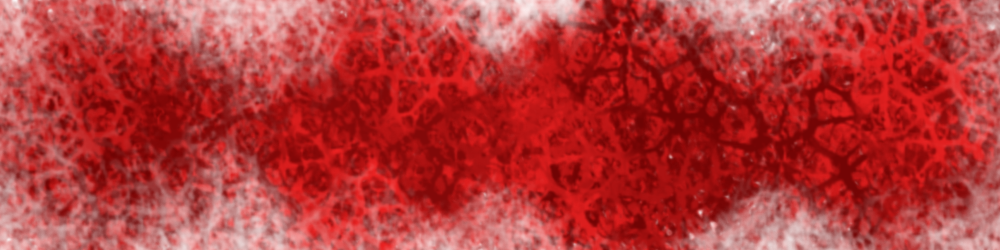
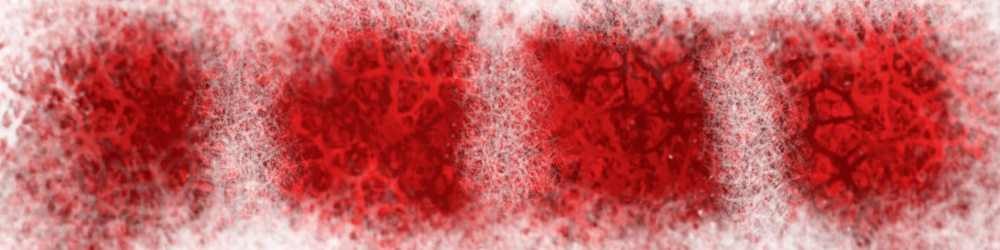
Add chatterbox; collisions with chatterbox 'miasma' only; other object is a harbinger

diff --git a/src/OpenGLRenderer.cpp b/src/OpenGLRenderer.cpp
@@ -301,10 +301,6 @@ void OpenGLRenderer::PopulateTextures()
 		);
 	}
 
-	// START CHATTER BOX
-
-	// END CHATTER BOX
-
 	// START HARBINGER
 
 	// Get texture
@@ -482,6 +478,171 @@ void OpenGLRenderer::PopulateTextures()
 
 	SDL_FreeSurface(surface);
 	// END HARBINGER
+
+	// START CHATTER BOX
+
+	// Get texture
+	currentTexture = textureIDs.size();
+	textureIDs.push_back(currentTexture);
+
+	// Get a cstyle string for loading the image
+	//~ char textureName[] = fileName;
+
+	// Debug output the name of the texture (make sure stuff isn't broken)
+	//~ std::cout << textureName << std::endl;
+
+	// Load the image as a surface (don't need a texture, can be surface for the pixel data)
+	surface = IMG_Load("resources/imgs/chatter_box.png");
+
+	// If something bad happened
+	if (surface == nullptr)
+	{
+		std::cout << "Unable to load image " << "chatter box!" << "! SDL Error: " << SDL_GetError() << std::endl;
+	}
+
+	// Indicate we want to make a new texture
+	glGenTextures(1, &textureIDs[currentTexture]);
+	// Indicate where this new texture will be bound
+	glBindTexture(GL_TEXTURE_2D, textureIDs[currentTexture]);
+
+	// Default to RGB
+	mode = GL_RGB;
+
+	// Otherwise account for alpha channel (we will probably usually have alpha)
+	if(surface->format->BytesPerPixel == 4) {
+		mode = GL_RGBA;
+	}
+
+	width = surface->w;
+	height = surface->h;
+
+	// Slam in the texture
+	glTexImage2D(
+		// Target: Here we just say to make it a 2D texture (there are other complicated things for like cubes and stuff)
+		GL_TEXTURE_2D,
+		// Level of detail (basically for mipmapping an image (shrinking it)
+		// 0 here means don't mipmap to reduce it (ie, the base image)
+		0,
+		// Internal format: how the bytes represent the colors
+		mode,
+		// Width
+		surface->w,
+		// Height
+		surface->h,
+		// The width of the border? Apparently this should *always* be 0
+		0,
+		// The format for the texels ("3D" texture pixels)
+		mode,
+		// How exactly the texels should be passed to OpenGL
+		GL_UNSIGNED_BYTE,
+		// The pixels data itself, we rip it from the surface
+		surface->pixels
+	);
+
+	//~ int currentTexture = textureIDs.size();
+	currentBuffer = bufferIDs.size();
+	currentVao = vaoIDs.size();
+	//~ textureIDs.push_back(currentTexture);
+	bufferIDs.push_back(currentBuffer);
+	vaoIDs.push_back(currentVao);
+
+    //Apple needs different function calls
+    #ifdef __APPLE__
+    glGenVertexArraysAPPLE(1, &vaoIDs[currentVao]);
+    glBindVertexArrayAPPLE(vaoIDs[currentVao]);
+    #else
+    glGenVertexArrays(1, &vaoIDs[currentVao]);
+    glBindVertexArray(vaoIDs[currentVao]);
+    #endif
+
+
+	// Texture parameters
+	// Basically, repeat if you need to and linear interpolation for texel -> pixel
+	glTexParameterf(GL_TEXTURE_2D, GL_TEXTURE_WRAP_S, GL_REPEAT);
+	glTexParameterf(GL_TEXTURE_2D, GL_TEXTURE_WRAP_T, GL_REPEAT);
+	glTexParameteri(GL_TEXTURE_2D, GL_TEXTURE_MIN_FILTER, GL_LINEAR);
+	glTexParameteri(GL_TEXTURE_2D, GL_TEXTURE_MAG_FILTER, GL_LINEAR);
+
+	// Contrived for six rectangle
+	numVertices = 36;
+	verticesSize = numVertices * sizeof(vec4);
+
+	vec4 cubeVertices[36];
+	vec2 cubeTexCoords[36];
+
+	GLfloat leftX = -1;
+	GLfloat rightX = CanonicalCoordinatesFromPixels(250, SCREEN_WIDTH);
+	GLfloat topY = 1;
+	GLfloat bottomY = -CanonicalCoordinatesFromPixels(250, SCREEN_HEIGHT);
+
+	vec4 initialCubeVertices[8] =
+		{{leftX, bottomY,  0.2, 1.0},	// front bottom left
+		 {leftX,  topY,  0.2, 1.0},	// front top left
+		 { rightX,  topY,  0.2, 1.0},	// front top right
+		 { rightX, bottomY,  0.2, 1.0},	// front bottom right
+		 {leftX, bottomY, -0.2, 1.0},	// back bottom left
+		 {leftX,  topY, -0.2, 1.0},	// back top left
+		 { rightX,  topY, -0.2, 1.0},	// back top right
+		 { rightX, bottomY, -0.2, 1.0}};	// back bottom left
+
+	int refs[36] = {1,0,3,1,3,2, 2,3,7,2,7,6, 3,0,4,3,4,7, 6,5,1,6,1,2, 4,5,6,4,6,7, 5,4,0,5,0,1};	// Order of vertices
+
+	//~ {texLeft, texTop},
+	//~ {texLeft, texBottom},
+	//~ {texRight, texBottom},
+	//~ {texLeft, texTop},
+	//~ {texRight, texBottom},
+	//~ {texRight, texTop},
+
+    vec2 texCoordRefs[6] = {{0.0, 0.0}, {0.0, 1.0}, {1.0, 1.0}, {0.0, 0.0}, {1.0, 1.0}, {1.0, 0.0}};
+
+	int vertexIndex = 0;
+    for(int i = 0; i < 36; i++)
+    {
+		cubeVertices[vertexIndex] = initialCubeVertices[refs[i]];
+		cubeTexCoords[vertexIndex] = texCoordRefs[i % 6];
+		vertexIndex++;
+    }
+
+	// Describes how we will be sending data out to be rendered
+	glGenBuffers(1, &bufferIDs[currentBuffer]);
+	glBindBuffer(GL_ARRAY_BUFFER, bufferIDs[currentBuffer]);
+	// Full buffer
+	glBufferData(GL_ARRAY_BUFFER, verticesSize + sizeof(cubeTexCoords), NULL, GL_STATIC_DRAW);
+	// Vertices
+	glBufferSubData(GL_ARRAY_BUFFER, 0, verticesSize, cubeVertices);
+	// Texture stuff
+	glBufferSubData(GL_ARRAY_BUFFER, verticesSize, sizeof(cubeTexCoords), cubeTexCoords);
+
+	// Info for position (vec4 at the moment)
+	vPosition = glGetAttribLocation(program, "vPosition");
+	glEnableVertexAttribArray(vPosition);
+	glVertexAttribPointer(vPosition, 4, GL_FLOAT, GL_FALSE, 0, BUFFER_OFFSET(0));
+
+	// Info for the texture (vec2 at the moment)
+	vTexCoord = glGetAttribLocation(program, "vTexCoord");
+	glEnableVertexAttribArray(vTexCoord);
+	glVertexAttribPointer(vTexCoord, 2, GL_FLOAT, GL_FALSE, 0, (GLvoid *) verticesSize);
+
+	allBufferAttributes["chatter_box"] = {
+		// Width
+		(GLfloat)surface->w,
+		// Height
+		(GLfloat)surface->h,
+		// verts
+		// contrived for now to 2d (3d will be individually defined, methinks)
+		36,
+		// texture
+		(GLuint)currentTexture,
+		// buffer start
+		(GLuint)currentBuffer,
+		// buffer end
+		(GLuint)currentBuffer
+	};
+
+	SDL_FreeSurface(surface);
+
+	// END CHATTER BOX
 
 	// May be causing problems
 	//~ TabulaRasa();

diff --git a/src/Duo.cpp b/src/Duo.cpp
@@ -26,7 +26,7 @@ Duo::Duo(OpenGLRenderer *gRenderer, Player* p):
 	openGL->AppendRenderObject(renderHarbinger);
 
 	currentRot = 0;
-	//~ GetNewLocation();
+	GetNewLocation();
 }
 
 void Duo::Move()
@@ -57,11 +57,30 @@ void Duo::Move()
 	);
 
 	renderChatterBox->ChangeCoordinates(
-		miasmaRect.x,
-		miasmaRect.y,
-		renderChatterBox->z
+		SCREEN_WIDTH / 2 - 125,
+		SCREEN_HEIGHT / 2 - 125,
+		0
 	);
 
+	rot = m_mult(y_rot_matrix(currentRot), z_rot_matrix(currentRot));
+	rot.x.x *= 0.25;
+	rot.y.y *= 0.25;
+	rot.z.z *= 0.25;
+	rot = m_mult(x_rot_matrix(currentRot), rot);
+	rot = m_mult(renderChatterBox->ctm, rot);
+
+	renderChatterBox->ChangeCoordinates(
+		miasmaRect.x - 500,
+		miasmaRect.y - 250,
+		0
+	);
+
+	renderChatterBox->ctm = m_mult(
+		rot,
+		renderChatterBox->ctm
+	);
+
+	// Miasma
 	renderMiasma->ChangeCoordinates(
 		miasmaRect.x,
 		miasmaRect.y,
@@ -77,7 +96,7 @@ void Duo::Move()
 		ply->damage(1);
 	}
 
-	currentRot += 0.1;
+	currentRot += 0.05;
 
 	if (currentRot > 3.14159265 * 2) {
 		currentRot = 0;
@@ -87,8 +106,9 @@ void Duo::Move()
 // Get new location
 void Duo::GetNewLocation()
 {
+	srand(time(0));
 	int randX = rand() % SCREEN_WIDTH;
-	int randY = rand() % 6000 + 2000;
+	int randY = rand() % 4000 + 2000;
 
 	miasmaRect.x = randX;
 	miasmaRect.y = randY;

diff --git a/src/Duo.hpp b/src/Duo.hpp
@@ -5,6 +5,7 @@
 #include "INC_SDL.h"
 #include "OpenGLRenderer.hpp"
 #include "Player.h"
+#include <ctime>
 
 class Duo
 {
